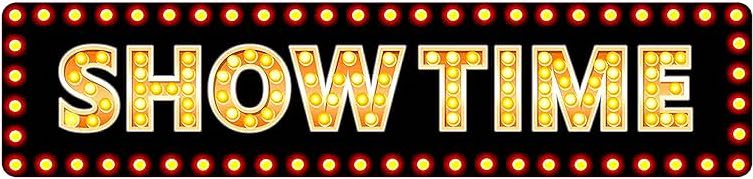
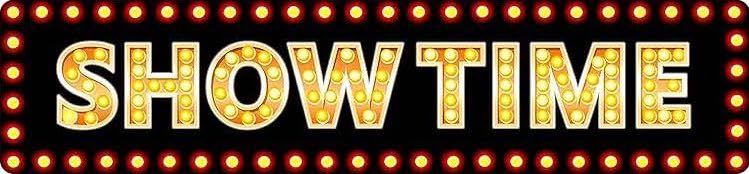
Added decorative changes and more cards

diff --git a/community-board/src/components/Board.jsx b/community-board/src/components/Board.jsx
@@ -4,11 +4,18 @@ function Board() {
   return (
     <div className="board">
         <Movie image="https://image.tmdb.org/t/p/original/mKp4euM5Cv3m2U1Vmby3OGwcD5y.jpg" title="Ballerina" releaseDate="6 June" trailerLink="https://youtube.com/watch?v=0FSwsrFpkbw"/>
-        <Movie image="https://image.tmdb.org/t/p/original/mKp4euM5Cv3m2U1Vmby3OGwcD5y.jpg" title="Ballerina" releaseDate="6 June" trailerLink="https://youtube.com/watch?v=0FSwsrFpkbw"/>
-        <Movie image="https://image.tmdb.org/t/p/original/mKp4euM5Cv3m2U1Vmby3OGwcD5y.jpg" title="Ballerina" releaseDate="6 June" trailerLink="https://youtube.com/watch?v=0FSwsrFpkbw"/>
-        <Movie image="https://image.tmdb.org/t/p/original/mKp4euM5Cv3m2U1Vmby3OGwcD5y.jpg" title="Ballerina" releaseDate="6 June" trailerLink="https://youtube.com/watch?v=0FSwsrFpkbw"/>
-        <Movie image="https://image.tmdb.org/t/p/original/mKp4euM5Cv3m2U1Vmby3OGwcD5y.jpg" title="Ballerina" releaseDate="6 June" trailerLink="https://youtube.com/watch?v=0FSwsrFpkbw"/>
-        <Movie image="https://image.tmdb.org/t/p/original/mKp4euM5Cv3m2U1Vmby3OGwcD5y.jpg" title="Ballerina" releaseDate="6 June" trailerLink="https://youtube.com/watch?v=0FSwsrFpkbw"/>
+        <Movie image="https://image.tmdb.org/t/p/original/3lwlJL8aW6Wor9tKvME8VoMnBkn.jpg" title="How to Train Your Dragon" releaseDate="13 June" trailerLink="https://youtube.com/watch?v=22w7z_lT6YM"/>
+        <Movie image="https://image.tmdb.org/t/p/original/hVKHzr4GwSw0FepqhqQ0DDiYHNY.jpg" title="28 Years Later" releaseDate="19 June" trailerLink="https://youtube.com/watch?v=mcvLKldPM08"/>
+        <Movie image="https://image.tmdb.org/t/p/original/iGyqJwqAHQjRrChcOCo6Nqgkb0B.jpg" title="F1 The Movie" releaseDate="27 June" trailerLink="https://youtube.com/watch?v=8yh9BPUBbbQ"/>
+        <Movie image="https://image.tmdb.org/t/p/original/q0fGCmjLu42MPlSO9OYWpI5w86I.jpg" title="Jurassic World Rebirth" releaseDate="2 July" trailerLink="https://youtube.com/watch?v=jan5CFWs9ic"/>
+        <Movie image="https://image.tmdb.org/t/p/original/qjVMsjV7UmSpi1aHA9Wtl1v8cxr.jpg" title="The Old Guard 2" releaseDate="2 July" trailerLink="https://youtube.com/watch?v=0FSwsrFpkbw"/>
+        <Movie image="https://image.tmdb.org/t/p/original/wPLysNDLffQLOVebZQCbXJEv6E6.jpg" title="Superman" releaseDate="6 June" trailerLink="https://youtube.com/watch?v=Ox8ZLF6cGM0"/>
+        <Movie image="https://image.tmdb.org/t/p/original/x26MtUlwtWD26d0G0FXcppxCJio.jpg" title="The Fantastic Four: First Steps" releaseDate="25 July" trailerLink="https://youtube.com/watch?v=pAsmrKyMqaA"/>
+        <Movie image="https://image.tmdb.org/t/p/original/rqgqHT7S6VTXPSkbNFb2kihc3tL.jpg" title="The Bad Guys 2" releaseDate="1 August" trailerLink="https://youtube.com/watch?v=TY1lWh20VSw"/>
+        <Movie image="https://image.tmdb.org/t/p/original/iyxwxDZCpIm0vIORaHpmgJv2BGF.jpg" title="Nobody 2" releaseDate="15 August" trailerLink="https://youtube.com/watch?v=-5X2pt95cIo"/>
+        <Movie image="https://image.tmdb.org/t/p/original/chpWmskl3aKm1aTZqUHRCtviwPy.jpg" title="Tron Ares" releaseDate="10 October" trailerLink="https://youtube.com/watch?v=9KVG_X_7Naw"/>
+        <Movie image="https://image.tmdb.org/t/p/original/oD3Eey4e4Z259XLm3eD3WGcoJAh.jpg" title="Now You See Me: Now You Don't" releaseDate="14 November" trailerLink="https://youtube.com/watch?v=-E3lMRx7HRQ"/>
+        <Movie image="https://image.tmdb.org/t/p/original/vAtyR5471YBzBb2FrCiCTrxwv3E.jpg" title="Zootopia 2" releaseDate="6 June" trailerLink="https://youtube.com/watch?v=xo4rkcC7kFc"/>
     </div>
   )
 }

diff --git a/community-board/src/App.css b/community-board/src/App.css
@@ -1,16 +1,18 @@
 #root {
   text-align: center;
   align-items: center;
-  max-width: 1280px;
   margin: 0 auto;
-  padding: 2rem;
+  padding: 0rem;
   place-content: center;
+  background-color: rgb(35, 35, 35);
 }
 
 .banner {
   max-width: 30%;
-  padding-top: 10px;
-  padding-bottom: 10px;
+  margin-top: 20px;
+  margin-bottom: 10px;
+  border-radius: 9px;
+  box-shadow: 0 8px 32px rgba(255, 200, 0, 0.3);
 }
 
 .heading {
@@ -34,34 +36,44 @@
   align-items: center;
   justify-content: space-evenly;
   flex-wrap: wrap;
-  max-width: 85%;
+  max-width: 75%;
   margin: 0 auto;
   padding: 2rem;
   gap: 2rem;
-  background-color: #ffe1b0;
+  background-color: #121826;
   border-radius: 20px;
-  box-shadow: 0 4px 16px rgba(0, 0, 0, 0.3);
+  box-shadow: 0 4px 16px rgba(0, 26, 255, 0.3);
 }
 
 .movie {
+  display: flex;
+  flex-direction: column;
+  justify-content: space-between;
+  align-items: center;
   width: 200px;
   padding: 20px;
-  background-color: white;
+  background-color: #1e293b;
+  border: 1px solid #ffd700;
   border-radius: 10px;
+  color: aliceblue;
+  height: 460px;
 }
 
 .movie img {
   width: 100%;
-  height: auto;
+  height: 300px;
   border-radius: 4px;
 }
 
 .button {
   display: inline-block;
   padding: 10px 20px;
+  width: 90px;
   margin-top: 10px;
-  background-color: #4caf50;
-  color: white;
+  font-size: small;
+  font-weight: bold;
+  background-color: #ffd700;
+  color: #1e1e1e;
   border: none;
   border-radius: 5px;
   cursor: pointer;
@@ -69,5 +81,11 @@
 }
 
 .button:hover {
-  background-color: #45a049;
+  background-color: #e6b800;
+}
+
+.seats {
+  margin-top: 40px;
+  max-width: 100%;
+  display: block;
 }

diff --git a/community-board/src/App.jsx b/community-board/src/App.jsx
@@ -4,6 +4,7 @@ import viteLogo from '/vite.svg'
 import './App.css'
 import Board from './components/Board'
 import banner from './assets/banner.jpg';
+import seats from './assets/seats.png';
 
 function App() {
   return (
@@ -11,6 +12,7 @@ function App() {
       <img src={banner} className="banner" />
       <h1 className="heading">Upcoming Movies</h1>
       <Board />
+      <img src={seats} className="seats"/>
     </div>
   )
 }

diff --git a/community-board/src/components/Movie.jsx b/community-board/src/components/Movie.jsx
@@ -2,8 +2,8 @@ function Movie(props) {
   return (
     <div className="movie">
       <img src={props.image} alt={props.title} />
-      <h2>{props.title}</h2>
-      <p>{props.releaseDate}</p>
+      <h3>{props.title}</h3>
+      <a style={{ fontWeight: 'bold' }}>{props.releaseDate}</a>
       <a href={props.trailerLink} className="button">Watch Trailer</a>
     </div>
   )

diff --git a/community-board/src/index.css b/community-board/src/index.css
@@ -1,3 +1,9 @@
 :root {
-  font-family:Verdana, Geneva, Tahoma, sans-serif;
+  font-family:Arial, Helvetica, sans-serif;
+}
+
+body {
+  margin: 0;
+  padding: 0px;
+  background-color: #f0f0f0;
 }
